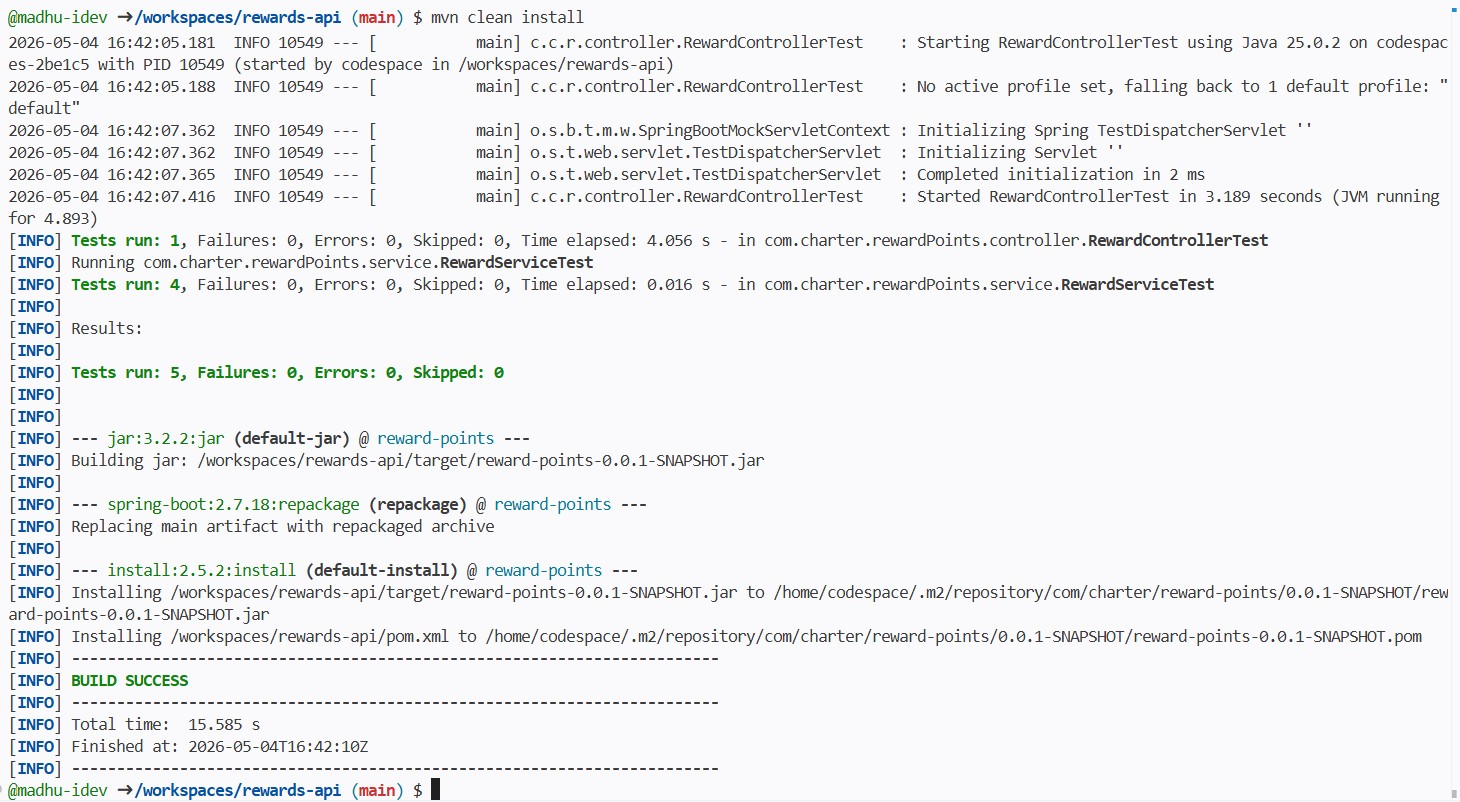
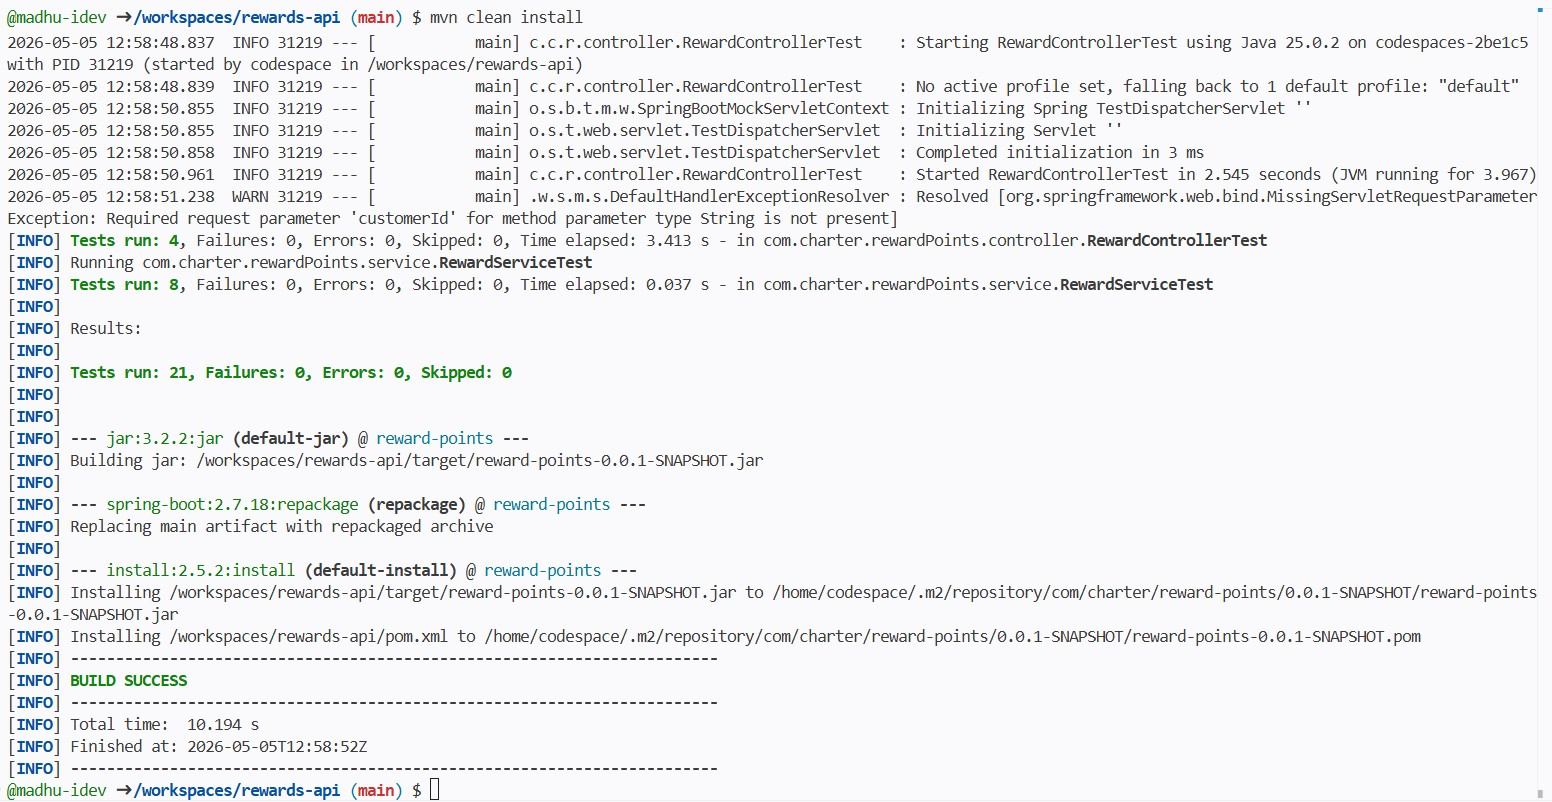
Added snaps and correct ReadMe

Changed region(s): [[0.0, 0.0, 1.0, 0.9975], [0.9863, 0.9663, 1.0, 0.9975]]

diff --git a/README.md b/README.md
@@ -1,98 +1,196 @@
-# Rewards API
+# 🎯 Rewards API (Java 8 | Spring Boot)
 
-## Overview
-This project is a Spring Boot REST API that calculates reward points for customers based on their transactions.
+A RESTful API that calculates **customer reward points** based on transactions over a configurable time period.
 
-The API allows users to retrieve reward points for a specific customer within a given date range.
-
----
-
-## Tech Stack
-
-- Java 8
-- Spring Boot 2.7.18
-- Maven
-- Lombok
-- JUnit 5 (Testing)
+This project demonstrates clean architecture, proper validation, testing, and real-world API design.
 
 ---
 
+# 📌 Features
 
+✔ Calculate reward points for a customer
+✔ Supports dynamic date range (`startDate`, `endDate`)
+✔ Monthly + total reward breakdown
+✔ Input validation & error handling
+✔ In-memory repository (no hardcoded service logic)
 
-##  Build & Run Instructions
-
-###  Prerequisites
-- Java 8 installed
-- Maven installed
 
 ---
 
-### Build Project
+# 🧠 Reward Calculation Logic
 
+| Amount Range | Points Earned                         |
+| ------------ | ------------------------------------- |
+| ≤ $50        | 0                                     |
+| $50 – $100   | 1 point per $1 over $50               |
+| > $100       | 2 points per $1 over $100 + 50 points |
 
+### Example:
+
+* $120 → (120-100)*2 + 50 = **90 points**
+* $80 → (80-50) = **30 points**
+
+---
+
+# 🏗 Tech Stack
+
+* Java 8
+* Spring Boot
+* Maven
+* Lombok
+* JUnit 5
+* MockMvc
+
+---
+
+# 📂 Project Structure
+
+```text id="struct01"
+src/main/java/com/charter/rewardPoints/
+│
+├── controller/      # REST API layer
+├── service/         # Business logic
+├── repository/      # In-memory data
+├── model/           # DTOs
+├── util/            # Reward calculation logic
+├── exception/       # Global exception handling
+```
+
+---
+
+# 🚀 Getting Started
+
+## 1⃣ Clone Repository
+
+```
+git clone https://github.com/madhu-idev/rewards-api.git
+cd rewards-api
+```
+
+---
+
+## 2⃣ Build Project
+
+```bash id="build01"
 mvn clean install
+```
 
+✔ Expected output:
+
+```text id="build02"
+BUILD SUCCESS
+```
 
 ---
 
-### Run Application
+## 3⃣ Run Application
 
-
+```
 mvn spring-boot:run
-
-
----
-
-### Application URL
-
-
-https://jubilant-system-969qwppj69qrfggr-8080.app.github.dev
-
+```
 
 ---
 
-##  API Documentation
+## 4⃣ Access API
 
-###  Endpoint
+```
+https://jubilant-system-969qwppj69qrfggr-8080.app.github.dev/api/rewards
+```
 
+---
 
+# 📡 API Details
+
+## 🔹 Endpoint
+
+```
 GET /api/rewards
-
-
----
-
-###  Query Parameters
-
-| Parameter   | Type   | Description |
-|------------|--------|------------|
-| customerId | String | Customer ID |
-| startDate  | String | Start date (YYYY-MM-DD) |
-| endDate    | String | End date (YYYY-MM-DD) |
+```
 
 ---
 
-###  Sample Request
+## 🔹 Query Parameters
 
-
-https://jubilant-system-969qwppj69qrfggr-8080.app.github.dev/api/rewards?customerId=1&startDate=2024-01-01&endDate=2026-12-31
+| Parameter  | Required | Description        |
+| ---------- | -------- | ------------------ |
+| customerId | Yes      | Customer ID        |
+| startDate  | No       | Format: yyyy-MM-dd |
+| endDate    | No       | Format: yyyy-MM-dd |
 
 ---
 
-###  Sample Response
+## ✅ Sample Request
 
-```json
+```
+https://jubilant-system-969qwppj69qrfggr-8080.app.github.dev/api/rewards?customerId=7&startDate=2025-03-01&endDate=2026-04-27
+
+```
+
+---
+
+## ✅ Sample Response
+
+```
 {
-  "customerId": "1",
+  "customerId": "7",
   "monthlyPoints": {
-    "JANUARY": 120,
-    "FEBRUARY": 90
+    "FEBRUARY": 30,
+    "APRIL": 850
   },
-  "totalPoints": 210
+  "totalPoints": 880
 }
- # Reward Calculation Logic
-No points for amount ≤ $50
-1 point for every dollar spent between $50–$100
-2 points for every dollar spent above $100
-Example:
-$120 → 90 points
-$75 → 25 points
+```
+
+---
+
+# ⚠ Validation Rules
+
+* ❌ customerId must not be empty
+* ❌ startDate must be before endDate
+* ❌ Dates cannot be in the future
+* ❌ Invalid date format → error response
+
+---
+
+# 🧪 Testing
+
+## Run Tests
+
+```
+mvn test
+```
+
+---
+
+## ✔ Test Coverage
+
+* Service layer unit tests
+* Boundary tests ($50, $100)
+* Error scenarios
+* Happy path scenarios
+* BigDecimal precision tests
+
+---
+
+# 📊 Test Scenarios
+
+| Scenario                    | Status |
+| --------------------------- | ------ |
+| Valid request               | ✅      |
+| Invalid customer            | ✅      |
+| Missing params              | ✅      |
+| Invalid date range          | ✅      |
+| Future date validation      | ✅      |
+| Boundary values ($50, $100) | ✅      |
+| High amount transactions    | ✅      |
+
+---
+
+# 📸 Test Evidence
+
+Screenshots available in:
+
+```
+TestEvidence/
+```
+
